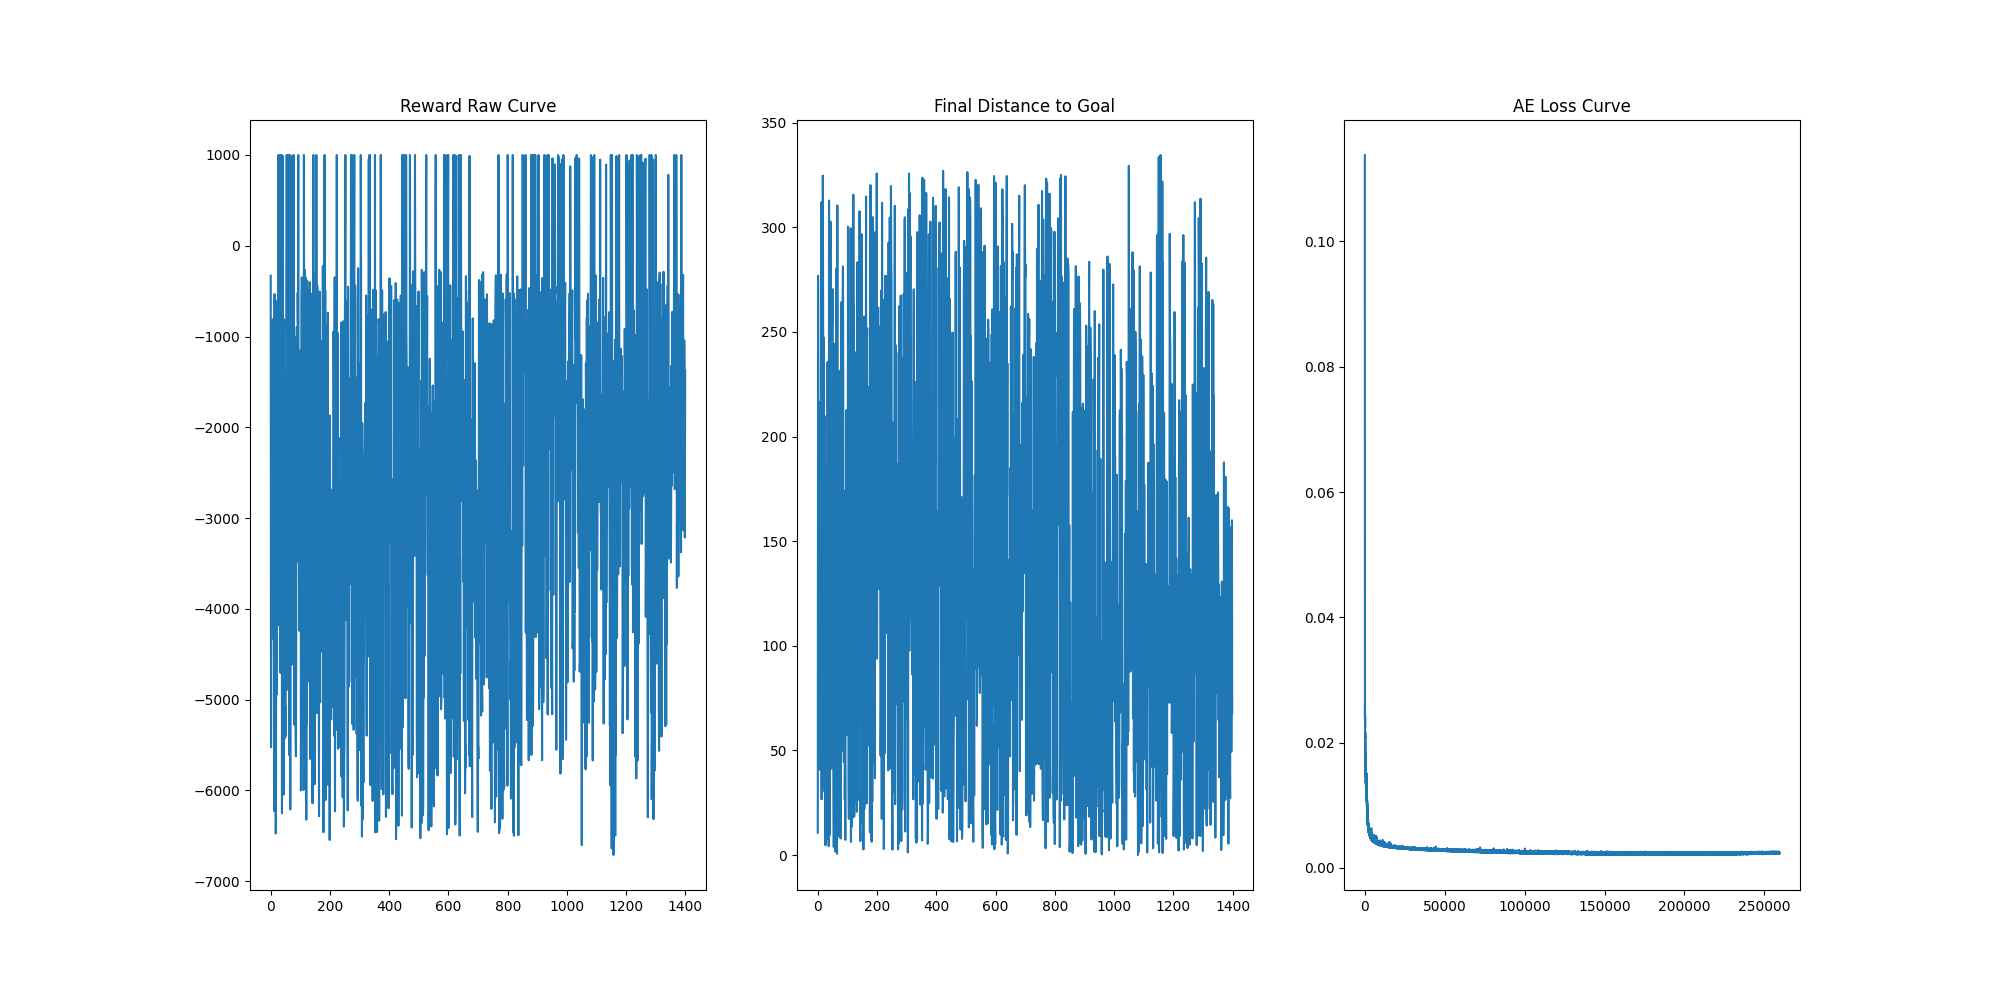
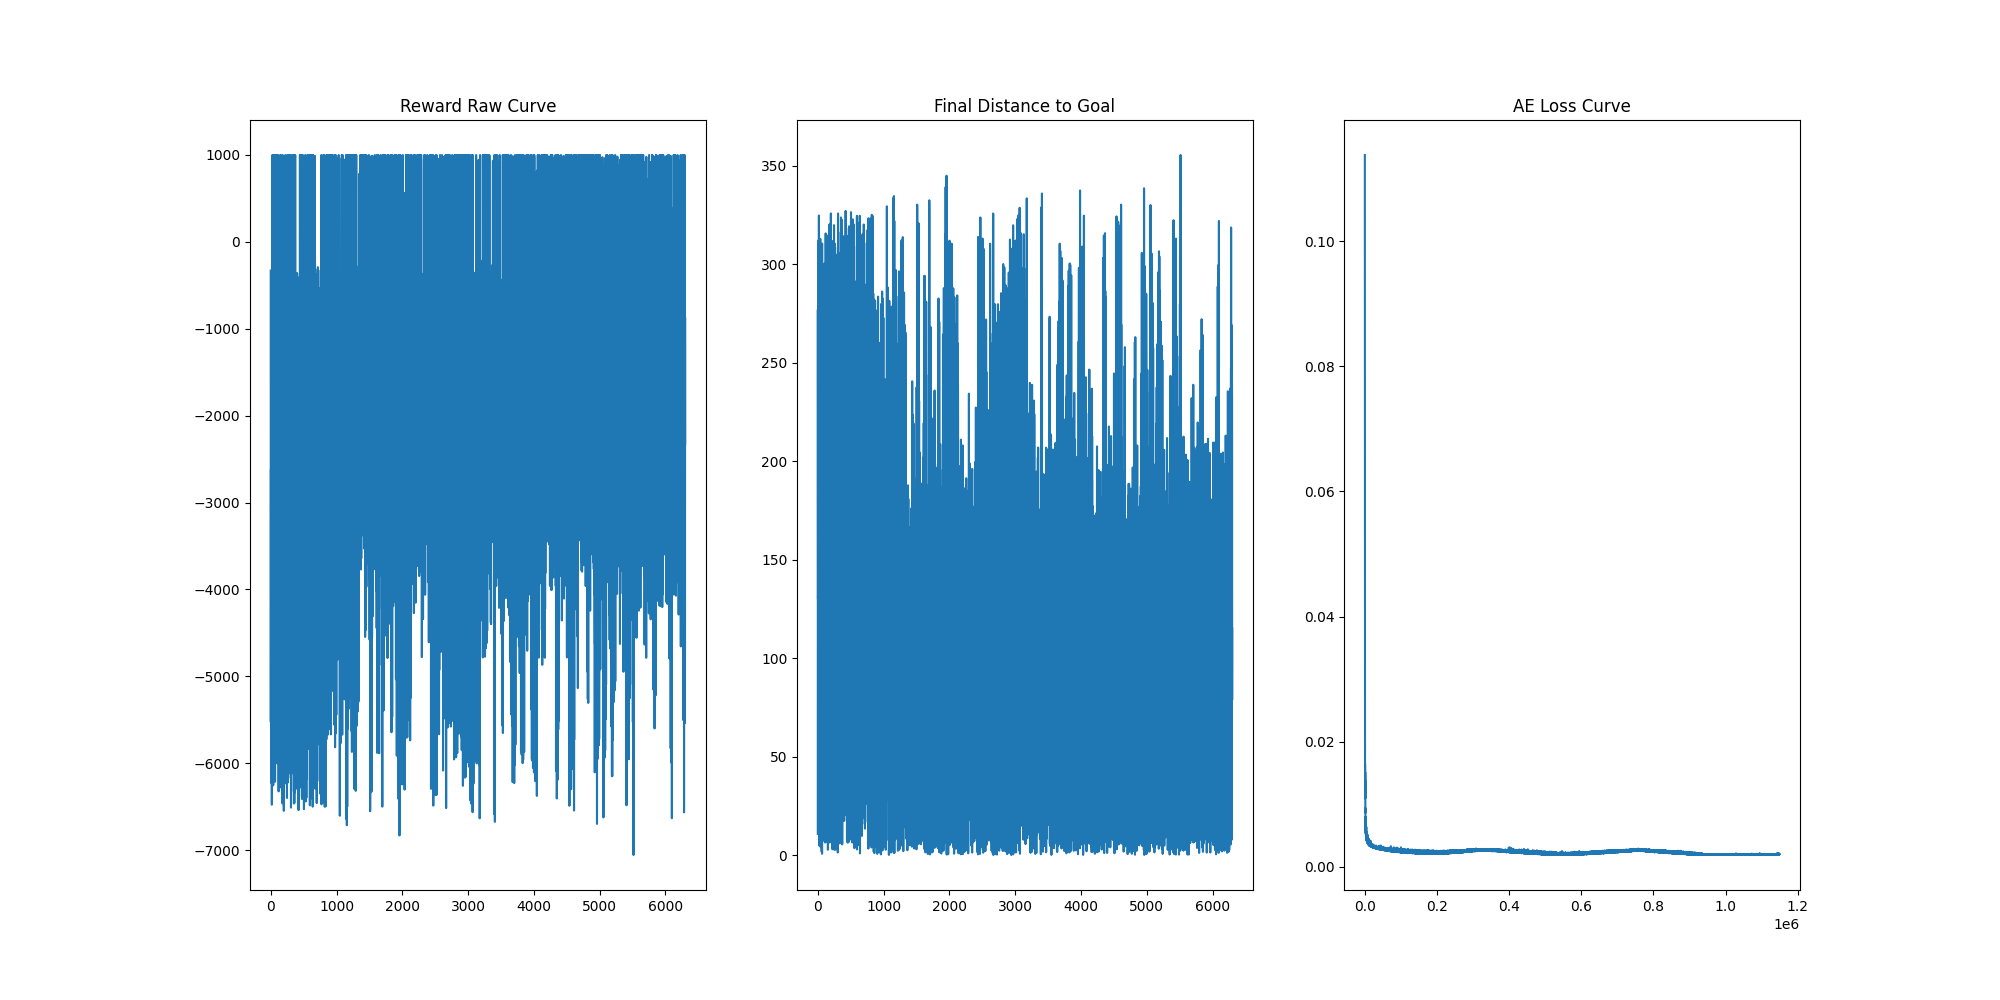
add bach normalization on actor-aruco

diff --git a/gripper_aruco_environment/TD3_rotation_v3.py b/gripper_aruco_environment/TD3_rotation_v3.py
@@ -3,9 +3,11 @@
     Algorithm: TD3- MFRL
     Version V3.0
     Date: 19/11/22
+    Modification: 26/11/2022
 """
 
 import numpy as np
+from tqdm import tqdm
 import matplotlib.pyplot as plt
 
 import torch
@@ -20,7 +22,7 @@ from networks_architectures_v3 import Actor, Critic
 
 
 class TD3agent_rotation:
-    def __init__(self, env, device, memory_size, batch_size):
+    def __init__(self, env, device, memory_size, batch_size, G):
 
         # -------- Hyper-parameters --------------- #
         self.env    = env
@@ -32,18 +34,18 @@ class TD3agent_rotation:
         self.gamma = 0.99  # discount factor
         self.tau   = 0.005
 
-        self.G                  = 10
+        self.G                  = G
         self.update_counter     = 0
         self.policy_freq_update = 2
 
-        self.batch_size  = batch_size # 64
+        self.batch_size  = batch_size # 32
         self.num_states  = 16
         self.num_actions = 4
 
         self.max_memory_size = memory_size
 
-        self.hidden_size_critic = [1024, 1024, 1024]
-        self.hidden_size_actor  = [1024, 1024, 1024]
+        self.hidden_size_critic = [1024, 512, 256]
+        self.hidden_size_actor  = [1024, 512, 256]
 
         # ------------- Initialization memory --------------------- #
         self.memory = MemoryClass(self.max_memory_size, self.device)
@@ -64,6 +66,11 @@ class TD3agent_rotation:
         self.actor_optimizer  = optim.Adam(self.actor.parameters(),  lr=self.actor_learning_rate)
         self.critic_optimizer = optim.Adam(self.critic.parameters(), lr=self.critic_learning_rate)
 
+        self.actor.train(True)
+        self.critic.train(True)
+        self.actor_target.train(True)
+        self.critic_target.train(True)
+
 
     def get_action_from_policy(self, state):
         self.actor.eval() # i need this because i am using batch normalization on actor network
@@ -71,7 +78,7 @@ class TD3agent_rotation:
             state_tensor = torch.from_numpy(state).float().unsqueeze(0).to(self.device)  # numpy to a tensor with shape [1,16]
             action       = self.actor(state_tensor)
             action       = action.cpu().data.numpy().flatten()
-        self.actor.train()
+        self.actor.train(True)
         return action
 
 
@@ -104,6 +111,7 @@ class TD3agent_rotation:
             critic_loss_2 = F.mse_loss(q2, q_target)
             critic_loss_total = critic_loss_1 + critic_loss_2
 
+            # Critic step Update
             self.critic_optimizer.zero_grad()
             critic_loss_total.backward()
             self.critic_optimizer.step()
@@ -147,7 +155,7 @@ class TD3agent_rotation:
 
 def run_exploration(env, episodes, horizont, agent):
     mode = "Exploration"
-    for episode in range(1, episodes+1):
+    for episode in tqdm(range(1, episodes+1)):
         env.reset_env()
         for step in range(1, horizont+1):
             state, _ = env.state_space_function()
@@ -207,9 +215,11 @@ def define_parse_args():
     parser.add_argument('--robot_index',      type=str, default='robot-2')
     parser.add_argument('--replay_max_size',  type=int, default=20_000)
 
-    parser.add_argument('--batch_size',               type=int, default=64)
+
+    parser.add_argument('--batch_size',               type=int, default=32)
+    parser.add_argument('--G',                        type=int, default=10)
     parser.add_argument('--num_exploration_episodes', type=int, default=1_000)
-    parser.add_argument('--num_training_episodes',    type=int, default=4_000)
+    parser.add_argument('--num_training_episodes',    type=int, default=5_000)
     parser.add_argument('--episode_horizont',         type=int, default=20)
 
     args   = parser.parse_args()
@@ -220,9 +230,10 @@ def main_run():
 
     device = torch.device('cuda' if torch.cuda.is_available() else 'cpu')
     args   = define_parse_args()
+    print(args)
 
     env   = RL_ENV(camera_index=args.camera_index, device_index=args.usb_index)
-    agent = TD3agent_rotation(env=env, device=device,  memory_size=args.replay_max_size, batch_size=args.batch_size)
+    agent = TD3agent_rotation(env=env, device=device,  memory_size=args.replay_max_size, batch_size=args.batch_size, G=args.G)
 
     run_exploration(env, args.num_exploration_episodes, args.episode_horizont, agent)
     run_training(env, args.num_training_episodes, args.episode_horizont, agent)

diff --git a/gripper_aruco_environment/networks_architectures_v3.py b/gripper_aruco_environment/networks_architectures_v3.py
@@ -37,17 +37,18 @@ class Actor(nn.Module):
         super(Actor, self).__init__()
         self.act_net = nn.Sequential(
             nn.Linear(input_size, hidden_size[0]),
+            nn.BatchNorm1d(hidden_size[0]),
             nn.ReLU(),
             nn.Linear(hidden_size[0], hidden_size[1]),
+            nn.BatchNorm1d(hidden_size[1]),
             nn.ReLU(),
             nn.Linear(hidden_size[1], hidden_size[2]),
-            nn.BatchNorm1d(hidden_size[2]), # this is from my previous version, could be critical
-            #nn.LayerNorm(hidden_size[2]), # this new on this version
+            nn.BatchNorm1d(hidden_size[2]),
             nn.ReLU(),
-            nn.Linear(hidden_size[2], action_dim)
+            nn.Linear(hidden_size[2], action_dim),
+            nn.Tanh()
         )
 
     def forward(self, state):
         x = self.act_net(state)
-        x = torch.tanh(x)
         return x

diff --git a/gripper_aruco_environment/motor_utilities_v3.py b/gripper_aruco_environment/motor_utilities_v3.py
@@ -51,8 +51,8 @@ class Motor:
         # Configuration values
         self.TORQUE_ENABLE  = 1  # Value for enabling the torque
         self.TORQUE_DISABLE = 0  # Value for disabling the torque
-        self.DXL_MAX_VELOCITY_VALUE = 100  # Value for limited the speed. Max possible value=2047 meaning max speed
-        self.DXL_MAX_TORQUE_VALUE   = 100  # It is the torque value of maximum output. 0 to 1,023 can be used
+        self.DXL_MAX_VELOCITY_VALUE = 110  # Value for limited the speed. Max possible value=2047 meaning max speed
+        self.DXL_MAX_TORQUE_VALUE   = 110  # It is the torque value of maximum output. 0 to 1,023 can be used
 
         # Initialize PacketHandler instance
         self.portHandler   = PortHandler(DEVICENAME)
